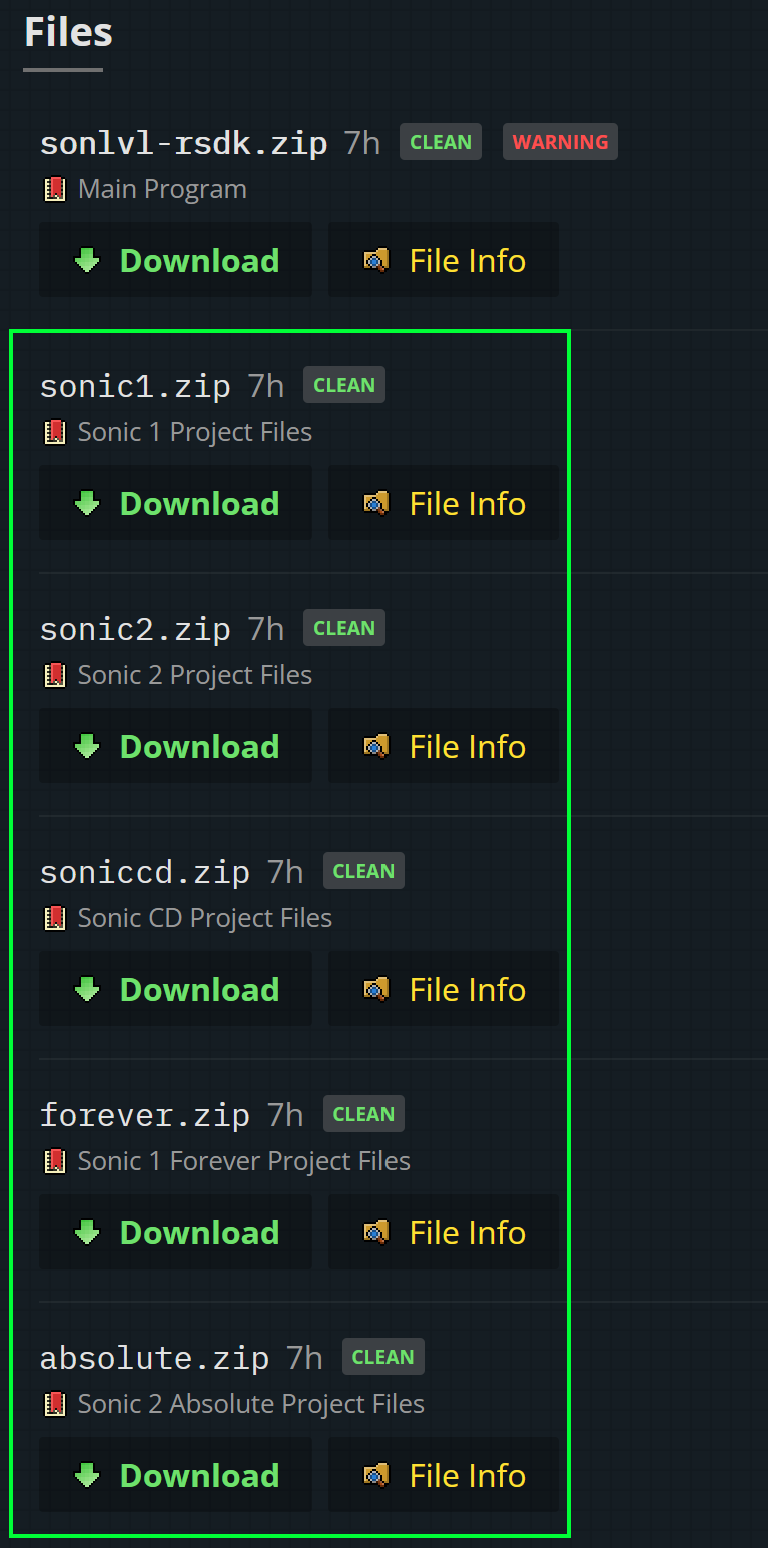
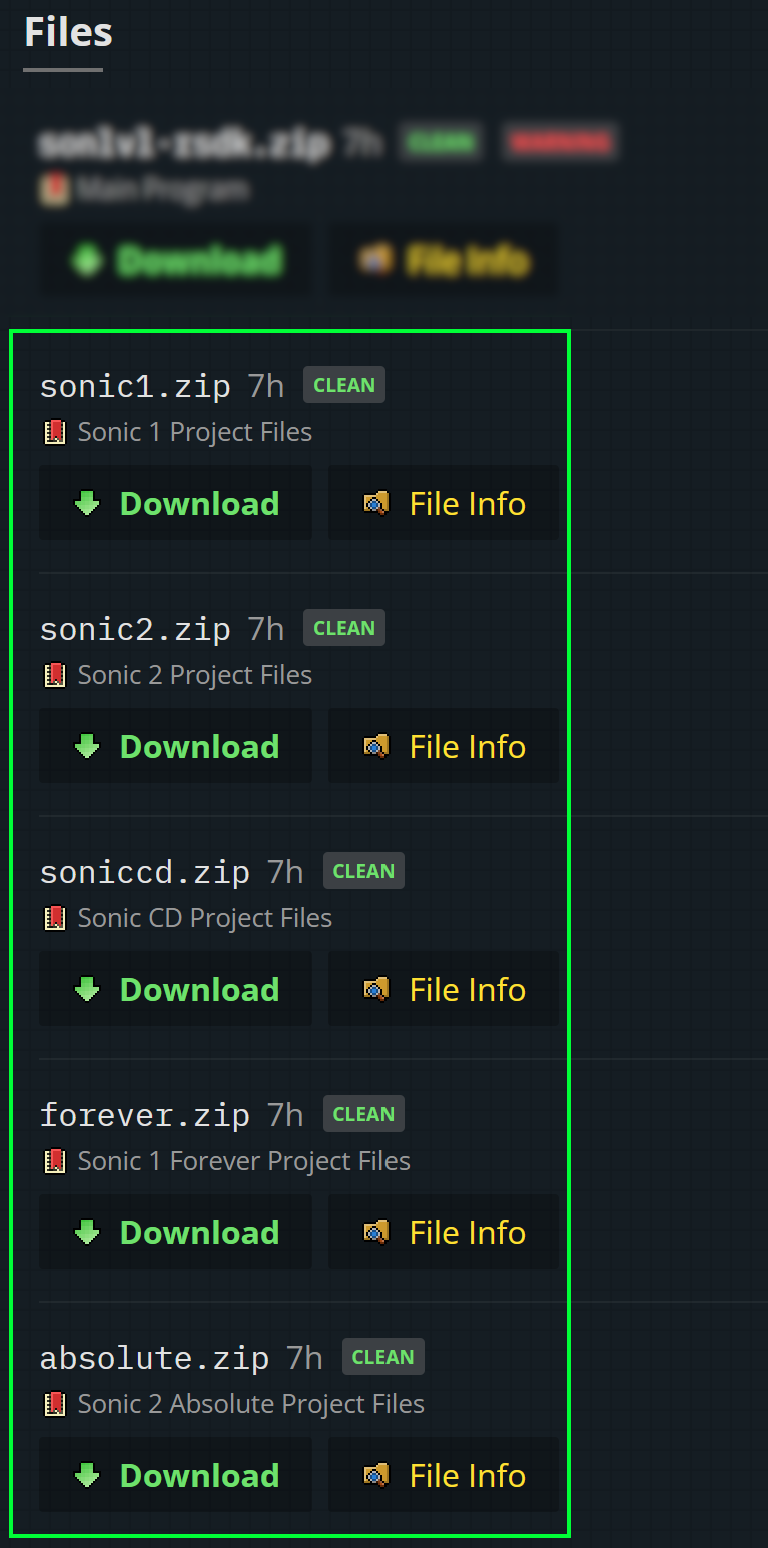
Small adjustments

diff --git a/guides/sonlvl/install/README.md b/guides/sonlvl/install/README.md
@@ -26,7 +26,7 @@ Next, on the same page, grab the project files for the game you want to edit. Fo
 
 <p align="center">
 	<sup>The project files on the GitHub releases page. Pick the one that matches your game!<br></sup>
-	<img src="SonLVL-3.png" alt="An image of the SonLVL-RSDK releases page, with the game project files circled." style="width:75%;" />
+	<img src="SonLVL-3.png" alt="An image of the SonLVL-RSDK releases page, with the game project files circled." style="width:45%;" />
 </p>
 
 Extract the ZIP into the same folder as your game’s `.exe` file.
